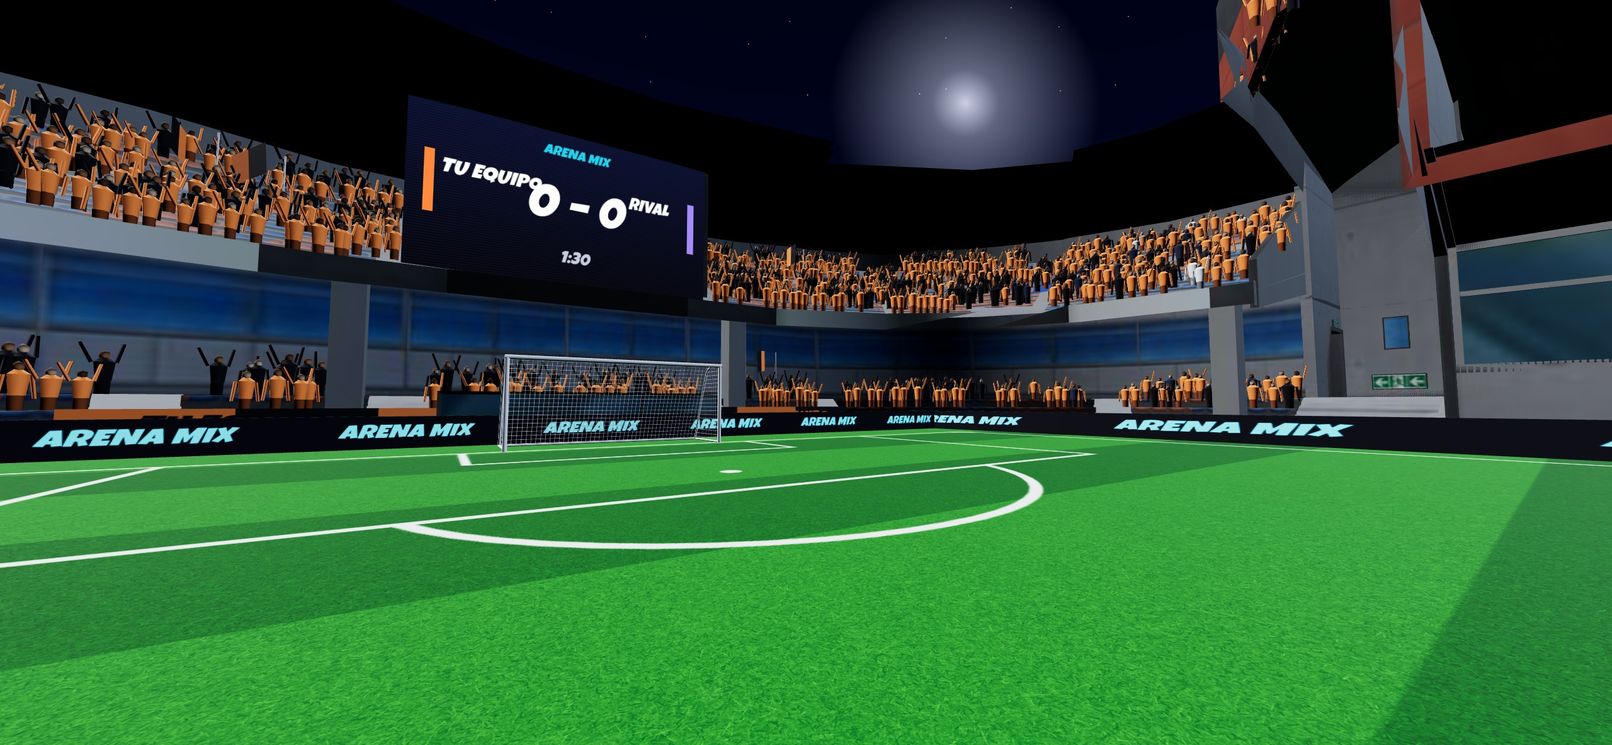
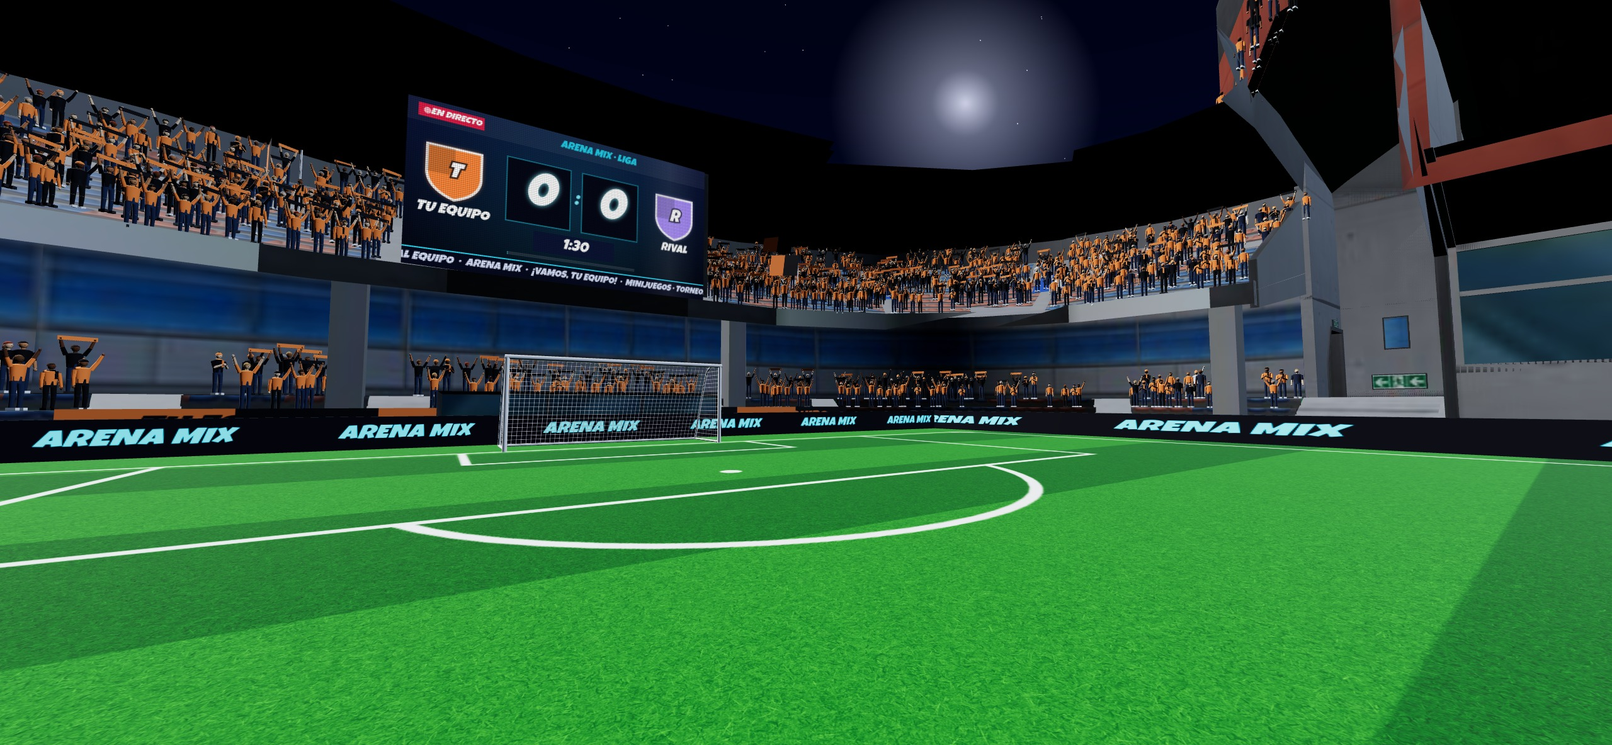
Ultras más realistas y videomarcador tipo TV
- Aficionados con cuerpo de persona (piernas, cadera, torso, hombros, brazos en dos partes, cuello, cabeza con nariz y orejas, pelo o gorro) en seis looks: camiseta o sudadera, bufanda al cuello o en alto, brazos arriba, uno arriba o aplaudiendo; vaqueros o pantalón negro; detalle según la calidad gráfica
- Colores por aficionado en el shader: camiseta, piel, pelo y bufanda/gorro con el otro color del equipo
- Videomarcador: escudos, marcador iluminado, reloj con barra, EN DIRECTO, cinta de anuncios, GOL a pantalla completa con el goleador y presentación de equipos; rejilla LED y brillo
- Fondo de la lobby actualizado

Claude-Session: https://claude.ai/code/session_017Zx2H8d6dd2Bde9S1DSPYC

diff --git a/arenamix/screens/Partido.dc.html b/arenamix/screens/Partido.dc.html
@@ -2249,32 +2249,127 @@ class Component extends DCLogic {
       out.setAttribute('position', new T.Float32BufferAttribute(pos, 3)); out.setAttribute('normal', new T.Float32BufferAttribute(nor, 3)); out.setAttribute('color', new T.Float32BufferAttribute(colA, 3));
       return out;
     };
-    const arm = (x, up, out) => part(new T.CylinderGeometry(0.052, 0.045, 0.58, 3, 1, true), 1, (g2) => {
-      g2.translate(0, -0.29, 0);
-      g2.rotateZ(up ? Math.PI - out * Math.sign(x) : 0.12 * Math.sign(x));
-      if (up) g2.rotateX(-0.25);
-      g2.translate(x, 0.86, 0.02);
-    });
-    const fanBase = () => [
-      part(new T.CylinderGeometry(0.15, 0.14, 0.36, 4, 1, true), 0.22, (g2) => { g2.scale(1, 1, 0.75); g2.translate(0, 0.18, 0); }),
-      part(new T.CylinderGeometry(0.21, 0.155, 0.52, 5, 1, true), 1, (g2) => { g2.scale(1, 1, 0.62); g2.translate(0, 0.62, 0); }),
-      part(new T.CylinderGeometry(0.07, 0.21, 0.12, 5, 1, true), 1, (g2) => { g2.scale(1, 1, 0.62); g2.translate(0, 0.94, 0); }),
+    /* ---- fans: people with a real build (legs, hips, torso and shoulders, two-part arms, neck, head with a
+       nose, hair or a beanie), in six looks: t-shirt or hoodie, scarf round the neck or held up over the head,
+       arms down, up, one up or clapping. One mesh per look; the parts are coloured per fan in the shader:
+       shirt (instance colour), skin, hair, the team's second colour (scarf, beanie) and fixed colours
+       (trousers, shoes). The level of detail follows the graphics setting. */
+    const LQ = this.gfxNow === 'alta' ? 2 : this.gfxNow === 'media' ? 1 : 0;
+    const SEG = [4, 6, 8][LQ], HSEG = [5, 7, 10][LQ];
+    const PART = { shirt: 0, skin: 1, alt: 2, hair: 3, raw: 4 };
+    const fanPart = (geo, part, shade) => {
+      const gg = geo.index ? geo.toNonIndexed() : geo, n = gg.attributes.position.count;
+      const c = new Float32Array(n * 3), pa = new Float32Array(n).fill(part);
+      const col3 = typeof shade === 'number' ? [shade, shade, shade] : shade;
+      for (let k = 0; k < n; k++) c.set(col3, k * 3);
+      gg.setAttribute('color', new T.Float32BufferAttribute(c, 3)); gg.setAttribute('aPart', new T.Float32BufferAttribute(pa, 1));
+      if (gg.attributes.uv) gg.deleteAttribute('uv');
+      return gg;
+    };
+    const mergeFan = (parts) => {
+      let n = 0; parts.forEach((g2) => { n += g2.attributes.position.count; });
+      const out = new T.BufferGeometry(), names = ['position', 'normal', 'color', 'aPart'], arrs = names.map((nm) => new Float32Array(n * (nm === 'aPart' ? 1 : 3)));
+      let o = 0;
+      parts.forEach((g2) => { names.forEach((nm, i) => arrs[i].set(g2.attributes[nm].array, o * (nm === 'aPart' ? 1 : 3))); o += g2.attributes.position.count; });
+      names.forEach((nm, i) => out.setAttribute(nm, new T.Float32BufferAttribute(arrs[i], nm === 'aPart' ? 1 : 3)));
+      out.scale(0.72, 0.72, 0.72);
+      return out;
+    };
+    const lin = (hex) => { const c = new T.Color(hex).convertSRGBToLinear(); return [c.r, c.g, c.b]; };
+    const Y = new T.Vector3(0, 1, 0);
+    // a tapered tube from point a to point b
+    const limb = (a, b, r1, r2, part, shade) => {
+      const A = new T.Vector3(...a), B = new T.Vector3(...b), d = B.clone().sub(A), L = d.length();
+      const geo = new T.CylinderGeometry(r2, r1, L, SEG, 1, true);
+      geo.applyMatrix4(new T.Matrix4().makeRotationFromQuaternion(new T.Quaternion().setFromUnitVectors(Y, d.normalize())));
+      geo.translate((A.x + B.x) / 2, (A.y + B.y) / 2, (A.z + B.z) / 2);
+      return fanPart(geo, part, shade);
+    };
+    const ball = (r, at, sx, sy, sz, part, shade, w, h) => { const geo = new T.SphereGeometry(r, w || HSEG, h || Math.max(3, HSEG - 3)); geo.scale(sx, sy, sz); geo.translate(...at); return fanPart(geo, part, shade); };
+    // arm poses: [elbow, wrist] for the right arm (+x is the fan's left; mirrored for the other side)
+    const POSE = {
+      down: [[0.235, 1.13, 0.03], [0.25, 0.87, 0.07]],
+      up: [[0.34, 1.7, 0.03], [0.43, 1.96, 0.06]],
+      clap: [[0.23, 1.15, 0.13], [0.05, 1.27, 0.3]],
+      scarf: [[0.31, 1.69, 0.06], [0.37, 1.95, 0.09]]
+    };
+    const DENIM = lin('#2B3954'), BLACK = lin('#17181D'), WHITE = lin('#E9ECF2'), SOLE = lin('#2A2A30');
+    const fanLook = (o) => {
+      const P = [], pants = o.pants || DENIM;
+      // legs and shoes
+      [-1, 1].forEach((sd) => {
+        P.push(limb([sd * 0.09, 0.93, 0], [sd * 0.1, 0.5, 0.02], 0.08, 0.064, PART.raw, pants));
+        P.push(limb([sd * 0.1, 0.5, 0.02], [sd * 0.1, 0.09, 0], 0.064, 0.05, PART.raw, pants));
+        const sh = new T.BoxGeometry(0.11, 0.09, 0.26); sh.translate(sd * 0.1, 0.045, 0.05); P.push(fanPart(sh, PART.raw, o.shoes || WHITE));
+      });
+      // hips, torso, shoulders
+      { const g2 = new T.CylinderGeometry(0.165, 0.155, 0.22, SEG, 1, true); g2.scale(1, 1, 0.68); g2.translate(0, 0.98, 0); P.push(fanPart(g2, PART.raw, pants)); }
+      { const g2 = new T.CylinderGeometry(0.205, 0.165, 0.5, SEG + 2, 2, true); g2.scale(1, 1, 0.62); g2.translate(0, 1.2, 0); P.push(fanPart(g2, PART.shirt, 1)); }
+      P.push(ball(0.205, [0, 1.43, 0], 1, 0.42, 0.62, PART.shirt, 1, SEG + 2, 4));
+      if (o.hood) P.push(ball(0.12, [0, 1.47, -0.1], 1.1, 0.6, 0.8, PART.shirt, 0.85, SEG, 4));
+      // arms: upper arm (sleeve), forearm (skin in a t-shirt), hand
+      const arms = o.arms || ['down', 'down'];
+      [-1, 1].forEach((sd, i) => {
+        const [e, w] = POSE[arms[i]], E = [sd * e[0], e[1], e[2]], W = [sd * w[0], w[1], w[2]];
+        P.push(limb([sd * 0.2, 1.41, 0], E, 0.062, 0.052, PART.shirt, 1));
+        P.push(limb(E, W, 0.05, 0.04, o.hood ? PART.shirt : PART.skin, 1));
+        const d = new T.Vector3(...W).sub(new T.Vector3(...E)).normalize().multiplyScalar(0.05);
+        P.push(ball(0.045, [W[0] + d.x, W[1] + d.y, W[2] + d.z], 1, 1.2, 0.8, PART.skin, 1, SEG, 3));
+      });
+      // neck, head, nose, ears
+      P.push(limb([0, 1.45, 0], [0, 1.56, 0.01], 0.055, 0.05, PART.skin, 0.9));
+      P.push(ball(0.11, [0, 1.66, 0.01], 0.88, 1.08, 0.95, PART.skin, 1));
+      { const n2 = new T.ConeGeometry(0.019, 0.045, 4); n2.rotateX(Math.PI / 2); n2.translate(0, 1.645, 0.112); P.push(fanPart(n2, PART.skin, 0.92)); }
+      if (LQ > 0) [-1, 1].forEach((sd) => P.push(ball(0.022, [sd * 0.097, 1.66, 0.0], 0.5, 1, 0.8, PART.skin, 0.9, 4, 3)));
+      // hair, or a beanie with a bobble
+      if (o.beanie) {
+        const b2 = new T.SphereGeometry(0.124, HSEG, 4, 0, Math.PI * 2, 0, Math.PI * 0.46); b2.scale(0.9, 1.05, 0.98); b2.translate(0, 1.68, 0.005); P.push(fanPart(b2, PART.alt, 1));
+        P.push(ball(0.032, [0, 1.81, 0], 1, 1, 1, PART.shirt, 1, 5, 3));
+      } else {
+        const h2 = new T.SphereGeometry(0.119, HSEG, 4, 0, Math.PI * 2, 0, Math.PI * (o.longHair ? 0.62 : 0.5)); h2.rotateX(-0.42); h2.scale(0.9, 1.06, 0.98); h2.translate(0, 1.675, -0.004); P.push(fanPart(h2, PART.hair, 1));
+      }
+      // the scarf: round the neck with an end hanging down, or stretched between the hands over the head
+      if (o.scarf === 'neck') {
+        const t2 = new T.TorusGeometry(0.085, 0.032, 4, SEG + 2); t2.rotateX(Math.PI / 2); t2.translate(0, 1.5, 0.01); P.push(fanPart(t2, PART.alt, 1));
+        const e2 = new T.BoxGeometry(0.075, 0.3, 0.025); e2.translate(0.07, 1.33, 0.125); P.push(fanPart(e2, PART.alt, 0.92));
+      } else if (o.scarf === 'up') {
+        const w = POSE.scarf[1], s2 = new T.BoxGeometry(w[0] * 2 + 0.16, 0.15, 0.02); s2.translate(0, w[1] + 0.07, w[2] + 0.02); P.push(fanPart(s2, PART.alt, 1));
+      }
+      return mergeFan(P);
+    };
+    // the looks: 0 arms down in a t-shirt · 1 hoodie and scarf · 2 arms up · 3 one arm up, beanie
+    // · 4 scarf held up (the ultras' classic) · 5 clapping, beanie
+    const fanLooks = [
+      fanLook({ arms: ['down', 'down'] }),
+      fanLook({ arms: ['down', 'down'], hood: true, scarf: 'neck', pants: BLACK, shoes: SOLE }),
+      fanLook({ arms: ['up', 'up'], longHair: true }),
+      fanLook({ arms: ['down', 'up'], hood: true, beanie: true, pants: BLACK }),
+      fanLook({ arms: ['scarf', 'scarf'], scarf: 'up', shoes: SOLE }),
+      fanLook({ arms: ['clap', 'clap'], beanie: true, scarf: 'neck' })
     ];
-    const fanPoses = [
-      merge(fanBase().concat([arm(-0.24, false), arm(0.24, false)])),
-      merge(fanBase().concat([arm(-0.22, true, 0.3), arm(0.22, true, 0.3)])),
-      merge(fanBase().concat([arm(-0.24, false), arm(0.22, true, 0.15)]))
-    ];
-    // head: skin colour below, hair painted on the top and back
-    const headGeo = merge([part(new T.SphereGeometry(0.118, 5, 3), 1, (g2) => { g2.scale(0.9, 1.1, 0.95); g2.translate(0, 1.07, 0); })]);
-    { const hp = headGeo.attributes.position, hc = headGeo.attributes.color; for (let k = 0; k < hp.count; k++) { if (hp.getY(k) > 1.1 || (hp.getZ(k) < -0.05 && hp.getY(k) > 1.02)) hc.setXYZ(k, 0.12, 0.12, 0.12); } }
+    const LOOKW = { ultra: [0.08, 0.14, 0.24, 0.14, 0.32, 0.08], fan: [0.42, 0.2, 0.1, 0.08, 0.04, 0.16] };
+    const pickLook = (ultra) => { const w = ultra ? LOOKW.ultra : LOOKW.fan; let r = Math.random(); for (let k = 0; k < w.length; k++) { r -= w[k]; if (r <= 0) return k; } return 0; };
+    const HAIRS = ['#1B1410', '#2E1E14', '#3B2A1E', '#0E0D0C', '#6B4A2B', '#B08A56', '#8E3B1E', '#8A8A8A'];
+    const fanMat = () => {
+      const m = new T.MeshStandardMaterial({ roughness: 0.82, vertexColors: true });
+      m.onBeforeCompile = (sh) => {
+        sh.vertexShader = sh.vertexShader
+          .replace('#include <common>', '#include <common>\nattribute float aPart;\nattribute vec3 aSkin;\nattribute vec3 aHair;\nattribute vec3 aAlt;')
+          .replace('#include <color_vertex>', ['vColor = color;', 'vec3 pc = vec3(1.0);',
+            '#ifdef USE_INSTANCING_COLOR', 'if (aPart < 0.5) pc = instanceColor;', '#endif',
+            'if (aPart > 0.5 && aPart < 1.5) pc = aSkin;', 'else if (aPart > 1.5 && aPart < 2.5) pc = aAlt;', 'else if (aPart > 2.5 && aPart < 3.5) pc = aHair;',
+            'vColor *= pc;'].join('\n'));
+      };
+      m.customProgramCacheKey = () => 'amfan1';
+      return m;
+    };
     const seatGeo = new T.BoxGeometry(0.46, 0.42, 0.07); seatGeo.translate(0, 0.21, -0.3);
     const seatSpots = [], stepSpots = [];
     const skins = [0xc68a5e, 0xe0b48f, 0x8d5a3b, 0xf1c9a5, 0x6b4129, 0xb9794f];
     const sections = new Map();
     const put = (key, team, ultra, wx, wy, wz, rotY, colHex) => {
       if (!sections.has(key)) sections.set(key, { team, ultra, items: [] });
-      sections.get(key).items.push({ wx, wy, wz, rotY, col: colHex, skin: skins[Math.floor(Math.random() * skins.length)] });
+      sections.get(key).items.push({ wx, wy, wz, rotY, col: colHex, skin: skins[Math.floor(Math.random() * skins.length)], hair: HAIRS[Math.floor(Math.random() * HAIRS.length)] });
     };
     const neutral = ['#2A3044', '#F2F5FA', '#1C2540'];
     const fanColor = (team, ultra, row) => {
@@ -2397,23 +2492,33 @@ class Component extends DCLogic {
     const m4 = new T.Matrix4(), q = new T.Quaternion(), sc = new T.Vector3(1, 1, 1), pos = new T.Vector3(), col = new T.Color(), up = new T.Vector3(0, 1, 0);
     sections.forEach((sec) => {
       const n = sec.items.length, grp = new T.Group();
-      // pose per fan: ultras mostly arms up, the rest mostly arms down
-      const poseOf = sec.items.map(() => { const r = Math.random(); return sec.ultra ? (r < 0.5 ? 1 : r < 0.75 ? 2 : 0) : (r < 0.76 ? 0 : r < 0.9 ? 2 : 1); });
-      const counts = [0, 0, 0]; poseOf.forEach((k) => counts[k]++);
-      const bodies = fanPoses.map((geo, k) => new T.InstancedMesh(geo, new T.MeshStandardMaterial({ roughness: 0.85, vertexColors: true }), Math.max(1, counts[k])));
-      const heads = new T.InstancedMesh(headGeo, new T.MeshStandardMaterial({ roughness: 0.7, vertexColors: true }), n);
-      const at = [0, 0, 0];
+      // a look per fan: ultras mostly with scarves held up and arms up, the rest mostly calm
+      const lookOf = sec.items.map(() => pickLook(sec.ultra));
+      const counts = fanLooks.map(() => 0); lookOf.forEach((k) => counts[k]++);
+      const [tc1, tc2] = teamCols[sec.team], cA = new T.Color(tc1).convertSRGBToLinear(), cB = new T.Color(tc2).convertSRGBToLinear();
+      const bodies = fanLooks.map((geo, k) => {
+        const c = Math.max(1, counts[k]), g2 = new T.BufferGeometry();
+        ['position', 'normal', 'color', 'aPart'].forEach((nm) => g2.setAttribute(nm, geo.attributes[nm]));
+        ['aSkin', 'aHair', 'aAlt'].forEach((nm) => g2.setAttribute(nm, new T.InstancedBufferAttribute(new Float32Array(c * 3), 3)));
+        g2.boundingSphere = new T.Sphere(new T.Vector3(0, 0.6, 0), 1.4);
+        const im = new T.InstancedMesh(g2, fanMat(), c); im.frustumCulled = false;
+        return im;
+      });
+      const at = fanLooks.map(() => 0), tmpC = new T.Color();
       sec.items.forEach((it, i) => {
         q.setFromAxisAngle(up, it.rotY + (Math.random() - 0.5) * 0.4);
         const s = 0.9 + Math.random() * 0.2; sc.set(s, s * (0.94 + Math.random() * 0.12), s);
         m4.compose(pos.set(it.wx, it.wy, it.wz), q, sc);
-        const k = poseOf[i], bm = bodies[k], j = at[k]++;
-        bm.setMatrixAt(j, m4); heads.setMatrixAt(i, m4);
+        const k = lookOf[i], bm = bodies[k], j = at[k]++, ga = bm.geometry.attributes;
+        bm.setMatrixAt(j, m4);
         bm.setColorAt(j, col.set(it.col).convertSRGBToLinear());
-        heads.setColorAt(i, col.setHex(it.skin).convertSRGBToLinear());
+        tmpC.setHex(it.skin).convertSRGBToLinear(); ga.aSkin.setXYZ(j, tmpC.r, tmpC.g, tmpC.b);
+        tmpC.set(it.hair).convertSRGBToLinear(); ga.aHair.setXYZ(j, tmpC.r, tmpC.g, tmpC.b);
+        // the scarf / beanie in the team colour the shirt isn't
+        const alt = col.equals(cA) ? cB : cA; ga.aAlt.setXYZ(j, alt.r, alt.g, alt.b);
       });
-      bodies.forEach((bm, k) => { bm.count = counts[k]; grp.add(bm); });
-      grp.add(heads); S.add(grp);
+      bodies.forEach((bm, k) => { bm.count = counts[k]; if (counts[k]) grp.add(bm); });
+      S.add(grp);
       const mid = sec.items[Math.floor(n / 2)];
       // a few fans of this block who can hold up a flare
       const spots = []; for (let j = 0; j < Math.min(10, n); j++) { const it = sec.items[Math.floor(Math.random() * n)]; spots.push([it.wx, it.wy, it.wz]); }
@@ -2684,11 +2789,11 @@ class Component extends DCLogic {
     // the stadium's two big video screens (one behind each goal): a live scoreboard
     this.screens = null;
     if (STAD) {
-      const cv = document.createElement('canvas'); cv.width = 512; cv.height = 256;
+      const hi = this.gfxNow !== 'baja', cv = document.createElement('canvas'); cv.width = hi ? 1024 : 512; cv.height = hi ? 512 : 256;
       const tex = new T.CanvasTexture(cv); tex.encoding = T.sRGBEncoding;
       const mat = new T.MeshBasicMaterial({ map: tex, toneMapped: false });
       [-1, 1].forEach((sx) => { const m = new T.Mesh(new T.PlaneGeometry(12.4, 6.1), mat); const [kx, kz] = this.stadK || [1, 1]; m.scale.set(kz, 1, 1); m.position.set(sx * 40.9 * kx, 9.1, 0.2 * kz); m.rotation.y = sx > 0 ? -Math.PI / 2 : Math.PI / 2; S.add(m); });
-      this.screens = { cv, tex, key: '' };
+      this.screens = { cv, tex, key: '', hi };
     }
     // night: glowing floodlight heads above the stadium model
     if (this.wx === 'noche' && STAD) [[-46, -36], [46, -36], [-46, 30], [46, 30]].forEach(([x, z]) => {
@@ -2717,37 +2822,103 @@ class Component extends DCLogic {
       wall(36, -33, 0, Math.PI / 2); wall(36, 33, 0, Math.PI / 2);
     }
   }
+  /* the stadium's video screens, like a TV broadcast on an LED wall: the two crests in their colours, the
+     score in big lit digits, the clock with a progress bar and a LIVE tag, an ad ticker running along the
+     bottom; a full-screen GOAL with the scorer's name when a goal goes in, and the teams shown in the intro */
   drawScreens() {
     const V = this.screens;
     if (!V) return;
-    const g = this.g, P = this.props, intro = g.phase === 'intro' ? this.introShot() : -1;
-    const key = [g.phase, intro, g.score[0], g.score[1], Math.ceil(g.t), this.golden()].join('|');
+    const g = this.g, P = this.props, intro = g.phase === 'intro' ? this.introShot() : -1, now = performance.now() / 1000;
+    const goal = g.phase === 'goal', anim = V.hi ? Math.floor(now * (goal ? 12 : 8)) : 0;
+    const key = [g.phase, intro, g.score[0], g.score[1], Math.ceil(g.t), this.golden(), anim].join('|');
     if (key === V.key) return;
     V.key = key;
     const c = V.cv.getContext('2d'), w = 512, h = 256;
+    c.setTransform(V.cv.width / w, 0, 0, V.cv.height / h, 0, 0);
     const hc = P.homeColor ?? this.homeKit().primary, ac = this.awayCol();
     const hn = (P.homeName ?? 'Tu equipo').toUpperCase(), an = (P.awayName ?? 'Rival').toUpperCase();
-    const gr = c.createLinearGradient(0, 0, 0, h); gr.addColorStop(0, '#0B1030'); gr.addColorStop(1, '#05060F');
-    c.fillStyle = gr; c.fillRect(0, 0, w, h);
-    c.fillStyle = 'rgba(255,255,255,0.04)'; for (let y = 0; y < h; y += 4) c.fillRect(0, y, w, 1);
-    c.textAlign = 'center'; c.textBaseline = 'middle';
     const font = (px) => 'italic 800 ' + px + 'px Barlow Condensed, Arial';
-    const fit = (txt, px, maxW) => { let k = px; c.font = font(k); while (c.measureText(txt).width > maxW && k > 14) { k -= 2; c.font = font(k); } };
-    if (intro === 0 || intro === 1) {
-      // the end being shown: its team, in its colours
+    const fit = (txt, px, maxW) => { let k = px; c.font = font(k); while (c.measureText(txt).width > maxW && k > 12) { k -= 2; c.font = font(k); } };
+    const glow = (col, b) => { c.shadowColor = col; c.shadowBlur = b; };
+    c.textAlign = 'center'; c.textBaseline = 'middle';
+    // background: deep navy with a soft light in the middle and a sweeping diagonal shine
+    const bg = c.createLinearGradient(0, 0, 0, h); bg.addColorStop(0, '#0A1238'); bg.addColorStop(1, '#03050F');
+    c.fillStyle = bg; c.fillRect(0, 0, w, h);
+    const rg = c.createRadialGradient(w / 2, h * 0.45, 10, w / 2, h * 0.45, w * 0.55); rg.addColorStop(0, 'rgba(34,211,238,0.16)'); rg.addColorStop(1, 'rgba(34,211,238,0)');
+    c.fillStyle = rg; c.fillRect(0, 0, w, h);
+    const crest = (x, y, r, col, letter) => {
+      c.save(); glow(col, 14);
+      c.beginPath(); c.moveTo(x - r, y - r * 0.95); c.lineTo(x + r, y - r * 0.95); c.lineTo(x + r, y + r * 0.15); c.quadraticCurveTo(x + r * 0.95, y + r * 0.85, x, y + r * 1.15); c.quadraticCurveTo(x - r * 0.95, y + r * 0.85, x - r, y + r * 0.15); c.closePath();
+      c.fillStyle = col; c.fill(); c.shadowBlur = 0; c.lineWidth = 4; c.strokeStyle = 'rgba(255,255,255,0.9)'; c.stroke();
+      c.fillStyle = 'rgba(0,0,0,0.18)'; c.fillRect(x - r, y - r * 0.95, r, r * 1.1);
+      c.font = font(r * 1.05); c.lineWidth = 5; c.strokeStyle = 'rgba(5,8,20,0.75)'; c.strokeText(letter, x, y + r * 0.05); c.fillStyle = '#FFFFFF'; c.fillText(letter, x, y + r * 0.05);
+      c.restore();
+    };
+    const ticker = () => {
+      c.fillStyle = '#060A1E'; c.fillRect(0, h - 30, w, 30);
+      c.fillStyle = '#22D3EE'; c.fillRect(0, h - 30, w, 2);
+      const msg = '  ARENA MIX  ·  ¡VAMOS, ' + hn + '!  ·  MINIJUEGOS · TORNEOS · PASE DE TEMPORADA  ·  SIGUE AL EQUIPO  ·';
+      c.font = font(20); c.textAlign = 'left';
+      const tw = c.measureText(msg).width, off = V.hi ? (now * 60) % tw : 0;
+      c.fillStyle = '#DCE6FF'; for (let x = -off; x < w; x += tw) c.fillText(msg, x, h - 14);
+      c.textAlign = 'center';
+    };
+    if (goal) {
+      // GOAL: the scoring team's colours flashing, the word huge, the scorer underneath
+      const tm = 1 - (g.concede ?? 0), col = tm === 0 ? hc : ac, flash = (anim % 4) < 2;
+      const gg = c.createLinearGradient(0, 0, w, h); gg.addColorStop(0, col); gg.addColorStop(1, '#05060F');
+      c.globalAlpha = flash ? 0.95 : 0.7; c.fillStyle = gg; c.fillRect(0, 0, w, h); c.globalAlpha = 1;
+      for (let k = 0; k < 14; k++) { const a = k / 14 * Math.PI * 2 + now * 0.8; c.fillStyle = 'rgba(255,255,255,0.06)'; c.beginPath(); c.moveTo(w / 2, h * 0.42); c.arc(w / 2, h * 0.42, w, a, a + 0.12); c.closePath(); c.fill(); }
+      c.save(); glow('#FFFFFF', 22); fit('¡GOOOL!', 128, w - 30); c.fillStyle = '#FFFFFF'; c.fillText('¡GOOOL!', w / 2, h * 0.4); c.restore();
+      const by = (g.scorer || '').toUpperCase();
+      if (by) { fit(by, 34, w - 50); c.fillStyle = '#FFE38A'; c.fillText(by, w / 2, h * 0.72); }
+      c.font = font(26); c.fillStyle = '#FFFFFF'; c.fillText(hn.slice(0, 10) + '  ' + g.score[0] + ' – ' + g.score[1] + '  ' + an.slice(0, 10), w / 2, h - 24);
+    } else if (intro === 0 || intro === 1) {
+      // the end being shown: its team, its crest and colours
       const col = intro === 0 ? hc : ac, nm = intro === 0 ? hn : an;
-      c.fillStyle = col; c.fillRect(0, 0, w, 14); c.fillRect(0, h - 14, w, 14);
-      c.fillStyle = '#FFFFFF'; c.font = font(34); c.fillText('¡VAMOS!', w / 2, 64);
-      fit(nm, 76, w - 40); c.fillStyle = col; c.fillText(nm, w / 2, 140);
-      c.fillStyle = '#C8CCE0'; c.font = font(26); c.fillText('ARENA MIX', w / 2, 210);
+      c.fillStyle = col; c.fillRect(0, 0, w, 10); c.fillRect(0, h - 40, w, 10);
+      crest(110, 112, 54, col, nm[0] || 'A');
+      c.textAlign = 'left'; c.fillStyle = '#FFFFFF'; c.font = font(30); c.fillText('¡VAMOS!', 190, 70);
+      fit(nm, 66, w - 210); c.save(); glow(col, 16); c.fillStyle = '#FFFFFF'; c.fillText(nm, 190, 126); c.restore();
+      c.fillStyle = '#9FB2D8'; c.font = font(22); c.fillText('SALTAN AL CAMPO', 190, 172);
+      c.textAlign = 'center'; ticker();
     } else {
-      c.fillStyle = '#22D3EE'; c.font = font(28); c.fillText(g.phase === 'intro' ? 'EN DIRECTO' : this.golden() ? '★ BALÓN DORADO ★' : 'ARENA MIX', w / 2, 34);
-      c.fillStyle = hc; c.fillRect(24, 74, 14, 96); c.fillStyle = ac; c.fillRect(w - 38, 74, 14, 96);
-      fit(hn, 38, 150); c.fillStyle = '#FFFFFF'; c.fillText(hn, 120, 100);
-      fit(an, 38, 150); c.fillText(an, w - 120, 100);
-      c.font = font(96); c.fillStyle = this.golden() ? '#FFC53D' : '#FFFFFF'; c.fillText(g.score[0] + ' – ' + g.score[1], w / 2, 132);
-      c.fillStyle = '#C8CCE0'; c.font = font(34); c.fillText(this.fmtClock(g.t), w / 2, 214);
+      // top bar: LIVE tag and the competition
+      c.fillStyle = 'rgba(255,255,255,0.06)'; c.fillRect(0, 0, w, 36);
+      const live = (anim % 8) < 6;
+      c.fillStyle = '#E11D48'; c.fillRect(14, 8, 92, 20);
+      c.fillStyle = live ? '#FFFFFF' : '#FFB4C4'; c.beginPath(); c.arc(26, 18, 5, 0, Math.PI * 2); c.fill();
+      c.font = font(17); c.fillStyle = '#FFFFFF'; c.fillText('EN DIRECTO', 66, 19);
+      c.font = font(22); c.fillStyle = this.golden() ? '#FFC53D' : '#22D3EE';
+      c.fillText(g.phase === 'intro' ? 'ARENA MIX · PREVIA' : this.golden() ? '★ BALÓN DORADO ★' : 'ARENA MIX · LIGA', w / 2 + 40, 19);
+      // crests and names
+      crest(66, 104, 38, hc, hn[0] || 'A'); crest(w - 66, 104, 38, ac, an[0] || 'B');
+      fit(hn, 26, 120); c.fillStyle = '#FFFFFF'; c.fillText(hn, 66, 166);
+      fit(an, 26, 120); c.fillText(an, w - 66, 166);
+      // the score: two lit panels
+      const sc = (x, v) => {
+        c.fillStyle = '#050816'; c.fillRect(x - 52, 60, 104, 104);
+        c.strokeStyle = 'rgba(34,211,238,0.5)'; c.lineWidth = 2; c.strokeRect(x - 52, 60, 104, 104);
+        c.save(); glow(this.golden() ? '#FFC53D' : '#7EF0FF', 16); c.font = font(96); c.fillStyle = this.golden() ? '#FFE38A' : '#FFFFFF'; c.fillText(String(v), x, 114); c.restore();
+      };
+      sc(w / 2 - 62, g.score[0]); sc(w / 2 + 62, g.score[1]);
+      c.font = font(40); c.fillStyle = '#7EF0FF'; c.fillText(':', w / 2, 110);
+      // clock and a bar for the time left
+      c.fillStyle = '#0B1434'; c.fillRect(w / 2 - 70, 174, 140, 34);
+      c.font = font(30); c.fillStyle = '#FFFFFF'; c.fillText(this.fmtClock(g.t), w / 2, 192);
+      const dur = Math.max(1, g.dur || 90), u = Math.max(0, Math.min(1, 1 - g.t / dur));
+      c.fillStyle = 'rgba(255,255,255,0.12)'; c.fillRect(w / 2 - 110, 214, 220, 5);
+      c.fillStyle = '#22D3EE'; c.fillRect(w / 2 - 110, 214, 220 * u, 5);
+      ticker();
     }
+    // LED wall: a fine pixel grid and scanlines over everything, and a moving shine
+    c.shadowBlur = 0;
+    c.fillStyle = 'rgba(0,0,0,0.22)'; for (let y = 0; y < h; y += 3) c.fillRect(0, y, w, 1);
+    if (V.hi) { c.fillStyle = 'rgba(0,0,0,0.14)'; for (let x = 0; x < w; x += 3) c.fillRect(x, 0, 1, h); }
+    const sx = ((now * 0.25) % 1.6 - 0.3) * w, sh = c.createLinearGradient(sx - 60, 0, sx + 60, 0);
+    sh.addColorStop(0, 'rgba(255,255,255,0)'); sh.addColorStop(0.5, 'rgba(255,255,255,0.07)'); sh.addColorStop(1, 'rgba(255,255,255,0)');
+    c.fillStyle = sh; c.fillRect(0, 0, w, h);
+    c.setTransform(1, 0, 0, 1, 0, 0);
     V.tex.needsUpdate = true;
   }
   // tifos unroll in the intro (each end in its shot) and when that end's team scores; flares come and go

diff --git a/arenamix/sw.js b/arenamix/sw.js
@@ -1,5 +1,5 @@
 /* Network-first so every update you publish reaches the phone; cache is the offline fallback. */
-const CACHE = 'arenamix-v182';
+const CACHE = 'arenamix-v183';
 const CORE = ['./', 'index.html', 'app.js', 'manifest.webmanifest', 'vendor/preact.min.js', 'vendor/three.min.js', 'vendor/GLTFLoader.js', 'vendor/SkeletonUtils.js', 'chars.js', 'gear.js', 'posters.js', 'hero.js', 'progress.js', 'results.js', 'sfx.js', 'online.js', 'social.js', 'vendor/peerjs.min.js', 'grass.js', 'sky.js', 'ball.js', 'vendor/RGBELoader.js', 'stadium.js', 'music.js', 'ui-fx.js', 'juice.js', 'i18n.js', 'i18n-en.js', 'assets/stadium/stadium.glb', 'assets/stadium/seats.json', 'assets/stadium/goal.glb', 'assets/sky/stadium_bg.jpg', 'assets/sky/stadium_env.hdr', 'assets/grass/color.jpg', 'assets/grass/normal.jpg', 'assets/grass/rough.jpg', 'assets/chars/ty.glb', 'assets/chars/vegas.glb', 'assets/chars/granny.glb', 'assets/chars/anims.json', 'icons/icon-192.png', 'icons/loading-bg.jpg', 'assets/lobby_bg.jpg', 'assets/grain.png', 'vendor/fonts/luckiestguy-latin.woff2', 'vendor/fonts/lilitaone-latin.woff2', 'vendor/fonts/rajdhani-500.woff2', 'vendor/fonts/rajdhani-600.woff2', 'vendor/fonts/rajdhani-700.woff2'];
 
 self.addEventListener('install', (e) => {

diff --git a/arenamix/screens/Deportes.dc.html b/arenamix/screens/Deportes.dc.html
@@ -206,7 +206,7 @@ a{color:#22D3EE}a:hover{color:#67E8F9}
 <div style="position: relative; width: 844px; height: 390px; box-sizing: border-box; background: radial-gradient(90% 120% at 40% 0%, #1D2350 0%, #0D0F24 45%, #07070F 100%); color: #F4F4FA; font-family: Exo2, sans-serif; overflow: hidden">
   <div class="am-bg"></div>
   <!-- the lobby's backdrop: a floodlit stadium at night -->
-  <div class="lb-bg" aria-hidden="true"><img class="photo" src="assets/lobby_bg.jpg?v=7" alt=""><i class="shade"></i><i class="glow"></i><i class="grain"></i></div>
+  <div class="lb-bg" aria-hidden="true"><img class="photo" src="assets/lobby_bg.jpg?v=8" alt=""><i class="shade"></i><i class="glow"></i><i class="grain"></i></div>
   <div style="position: absolute; left: 0; top: 0; bottom: 0; width: 80px; height: 390px; z-index: 3"><dc-import name="Nav" active="jugar" hint-size="80px,390px"></dc-import></div>
   <!-- top bar: you, your coins, settings -->
   <div style="position: absolute; left: 96px; right: 12px; top: 10px; height: 44px; display: flex; align-items: center; gap: 10px; z-index: 1">
